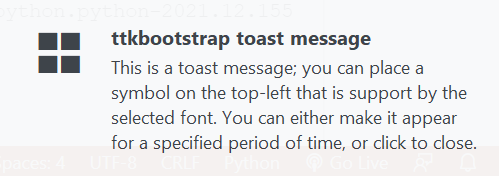
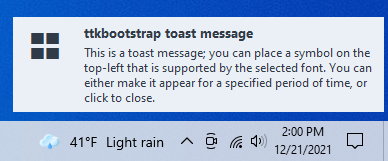
update toast doc images;

diff --git a/src/ttkbootstrap/toast.py b/src/ttkbootstrap/toast.py
@@ -219,7 +219,7 @@ if __name__ == "__main__":
 
     ToastNotification(
         "ttkbootstrap toast message",
-        "This is a toast message;",
+        "This is a toast message; you can place a symbol on the top-left that is supported by the selected font. You can either make it appear for a specified period of time, or click to close.",
     ).show_toast()
 
     app.mainloop()
